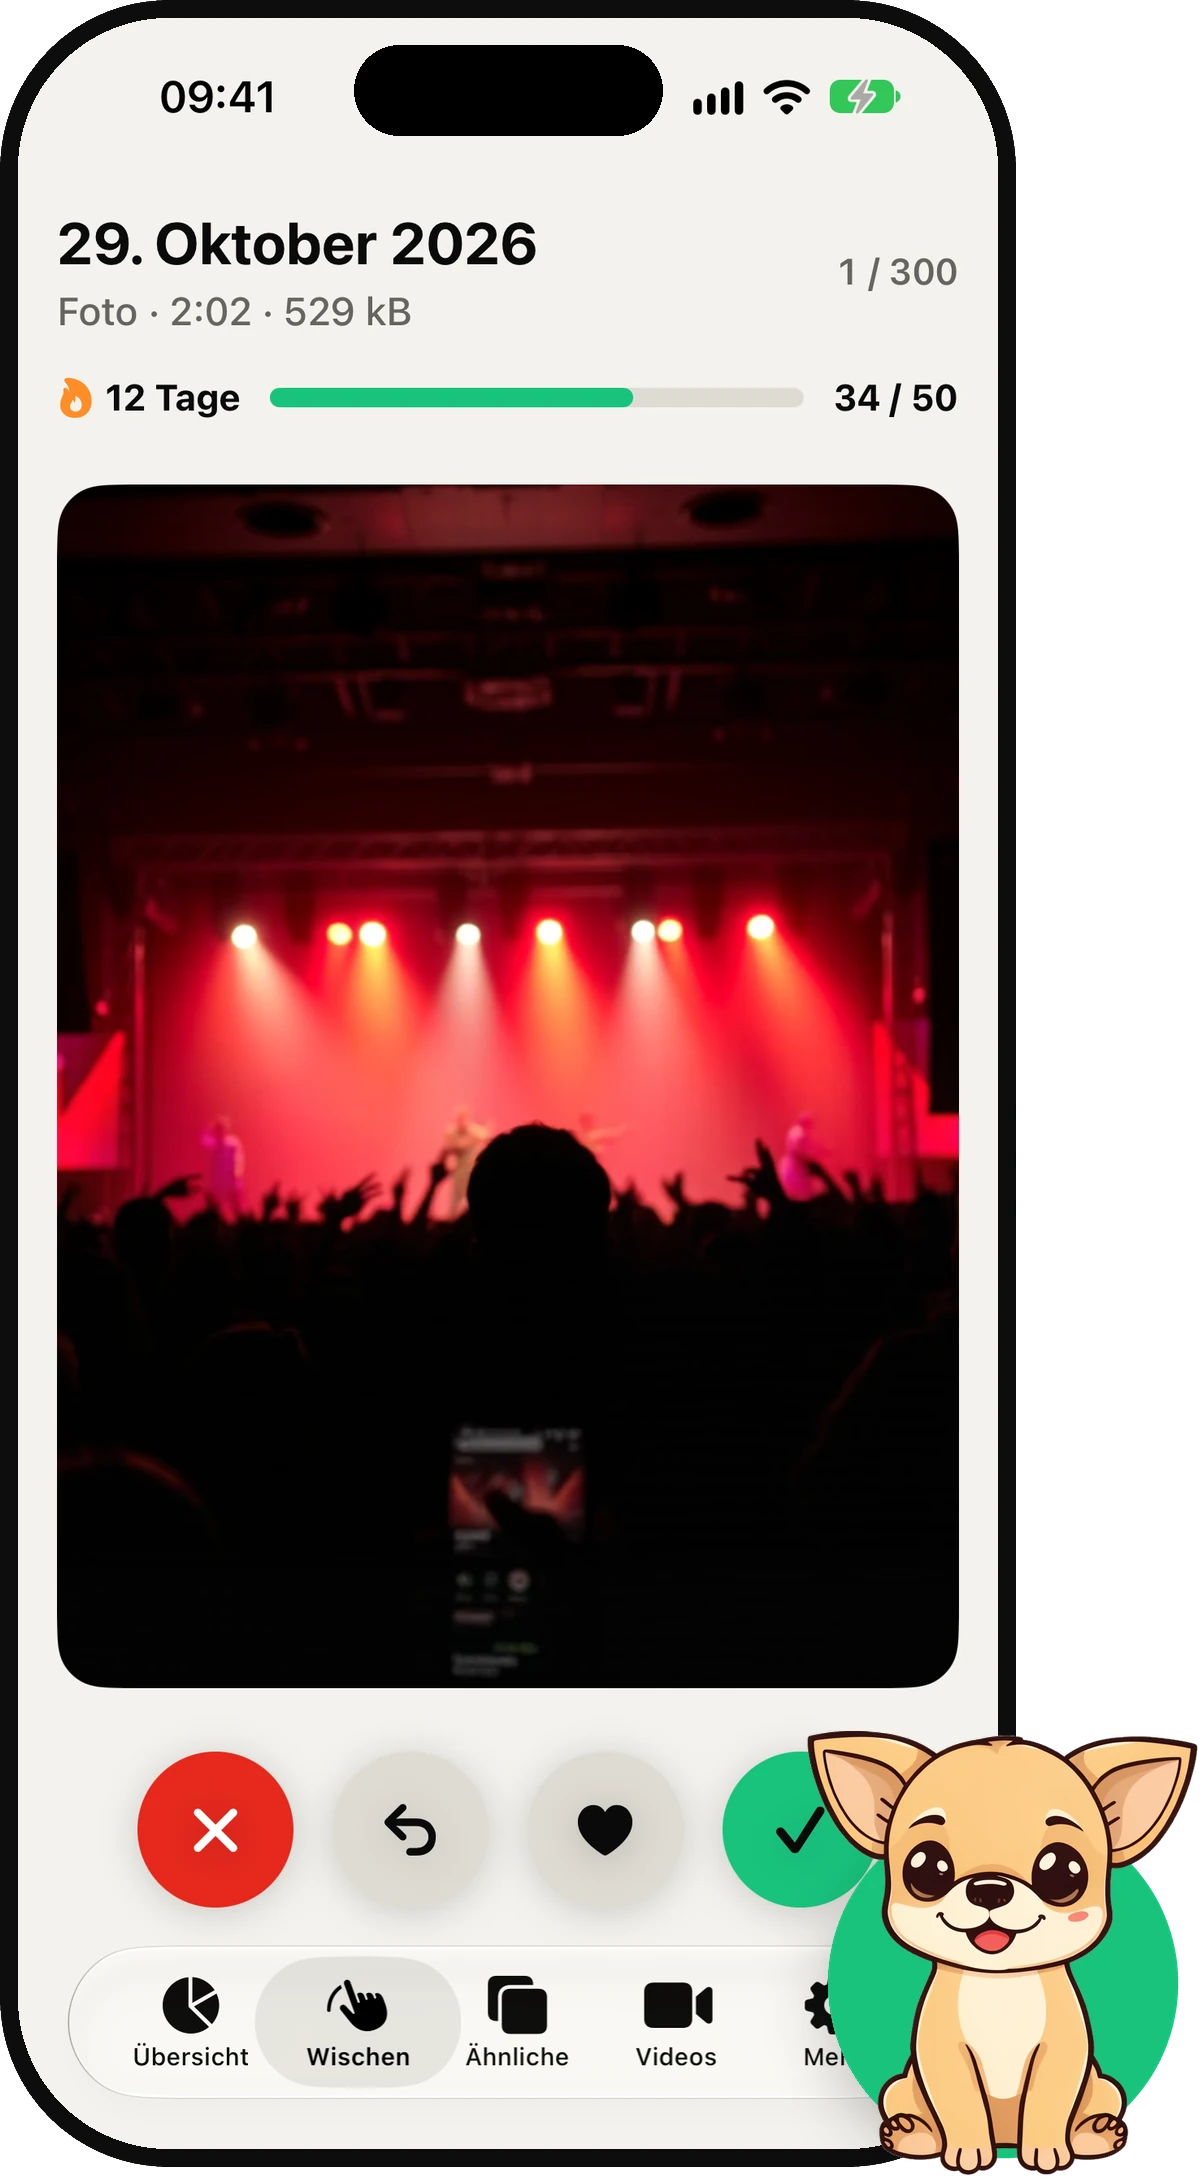
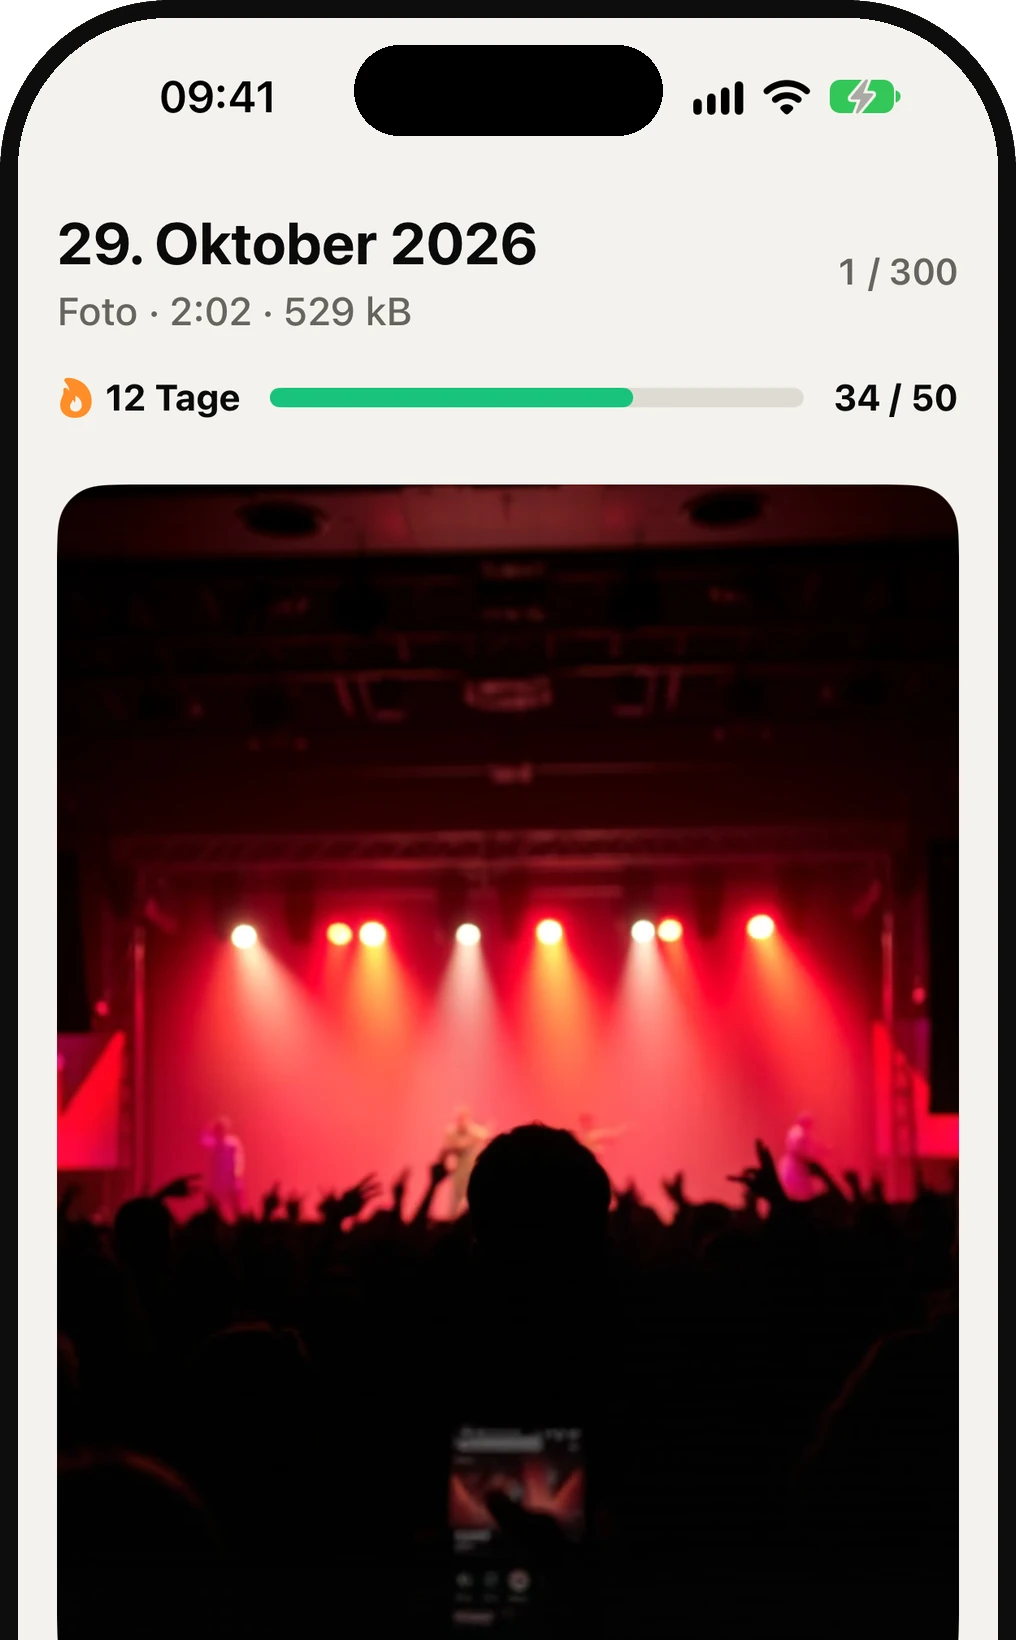
PlatzDa: Vorteile und Knopf wieder zusammen, Handys mittig und ohne Hund

diff --git a/index.html b/index.html
@@ -190,27 +190,36 @@
   .socials .tile svg { width: 34px; height: 34px; }
   .socials .t, .app .t { font-size: 1.375rem; }
 
-  /* Eigene App: Karte, freigestellte Handys, Vorteile und Knopf stehen jeder für sich */
+  /* Eigene App: Karte, Handys und Vorteile mit Knopf stehen jeder für sich.
+     Am Handy immer ein iPhone genau in der Mitte, die Nachbarn schauen links und rechts hervor. */
   .app { margin-top: 32px; }
   .app .item { height: auto; }
   .app .s { white-space: normal; }
   .shots {
-    list-style: none; margin: 16px calc(50% - 50vw) 0; padding: 12px 16px 44px;
-    display: grid; grid-auto-flow: column; grid-auto-columns: min(66vw, 300px); gap: 14px;
-    overflow-x: auto; scroll-snap-type: x proximity; scroll-padding-left: 16px; scrollbar-width: none;
+    --phone: min(64vw, 280px);
+    list-style: none; margin: 24px calc(50% - 50vw) 0; padding: 0 calc(50vw - var(--phone) / 2);
+    display: grid; grid-auto-flow: column; grid-auto-columns: var(--phone); gap: 14px;
+    overflow-x: auto; scroll-snap-type: x mandatory; scrollbar-width: none;
   }
   .shots::-webkit-scrollbar { display: none; }
-  .shots li { scroll-snap-align: start; }
-  .shots img { width: 100%; height: auto; filter: drop-shadow(0 14px 18px rgba(20, 20, 22, .2)); }
-  .perks { list-style: none; margin: -12px 0 0; padding: 0; display: grid; gap: 20px; }
-  .perks .item { grid-template-columns: minmax(0, 1fr); padding-right: 16px; }
-  .perks .item:hover { transform: none; box-shadow: 0 16px 32px -14px rgba(20, 20, 22, .14); }
-  .perks .tile { width: 60px; height: 60px; }
-  .perks .tile svg { width: 28px; height: 28px; }
-  .perks .t { font-size: clamp(1rem, 4.4vw, 1.125rem); }
+  .shots li { scroll-snap-align: center; }
+  .shots img {
+    width: 100%; height: auto;
+    -webkit-mask-image: linear-gradient(to bottom, #000 74%, transparent);
+    mask-image: linear-gradient(to bottom, #000 74%, transparent);
+  }
+  .app-info {
+    display: grid; gap: 16px;
+    margin: 20px 0 0 10px; padding: 20px 16px;
+    background: var(--card);
+    box-shadow: 0 16px 32px -14px rgba(20, 20, 22, .14);
+  }
+  .facts { list-style: none; margin: 0; padding: 0; display: grid; gap: 8px; font-weight: 500; }
+  .facts li { display: flex; gap: 8px; align-items: flex-start; }
+  .facts svg { width: 20px; height: 20px; margin-top: 2px; color: var(--ok); flex: none; }
   .get {
     display: flex; align-items: center; justify-content: center;
-    min-height: 56px; margin: 20px 0 0 10px; padding: 8px 16px;
+    min-height: 54px; padding: 8px 16px;
     background: #19C37D; color: #0A0A0B;
     font-size: 1.0625rem; font-weight: 600; text-decoration: none; text-align: center;
     transition: background-color .2s var(--ease-out);
@@ -270,8 +279,8 @@
     .products { align-items: start; }
   }
   @media (min-width: 1100px) {
-    .shots { grid-auto-columns: 1fr; max-width: 1400px; margin-left: auto; margin-right: auto; width: 100vw; position: relative; left: 50%; transform: translateX(-50%); overflow: visible; padding: 12px 32px 44px; }
-    .perks { grid-template-columns: repeat(3, 1fr); column-gap: 18px; }
+    .shots { margin-left: 10px; margin-right: 0; padding: 0; grid-auto-columns: 1fr; overflow: visible; }
+    .app-info { grid-template-columns: 1fr 1fr; gap: 28px; align-items: center; padding: 22px 20px; }
   }
 </style>
 </head>
@@ -294,8 +303,7 @@
   <symbol id="i-bag" viewBox="0 0 24 24"><g fill="none" stroke="currentColor" stroke-width="2" stroke-linecap="round" stroke-linejoin="round"><path d="M6 2 3 6v14a2 2 0 0 0 2 2h14a2 2 0 0 0 2-2V6l-3-4Z"/><path d="M3 6h18"/><path d="M16 10a4 4 0 0 1-8 0"/></g></symbol>
   <symbol id="i-link" viewBox="0 0 24 24"><g fill="none" stroke="currentColor" stroke-width="2" stroke-linecap="round" stroke-linejoin="round"><path d="M10 13a5 5 0 0 0 7.54.54l3-3a5 5 0 0 0-7.07-7.07l-1.72 1.71"/><path d="M14 11a5 5 0 0 0-7.54-.54l-3 3a5 5 0 0 0 7.07 7.07l1.71-1.71"/></g></symbol>
   <symbol id="i-whatsapp" viewBox="0 0 24 24"><path fill="currentColor" d="M17.472 14.382c-.297-.149-1.758-.867-2.03-.967-.273-.099-.471-.148-.67.15-.197.297-.767.966-.94 1.164-.173.199-.347.223-.644.075-.297-.15-1.255-.463-2.39-1.475-.883-.788-1.48-1.761-1.653-2.059-.173-.297-.018-.458.13-.606.134-.133.298-.347.446-.52.149-.174.198-.298.298-.497.099-.198.05-.371-.025-.52-.075-.149-.669-1.612-.916-2.207-.242-.579-.487-.5-.669-.51-.173-.008-.371-.01-.57-.01-.198 0-.52.074-.792.372-.272.297-1.04 1.016-1.04 2.479 0 1.462 1.065 2.875 1.213 3.074.149.198 2.096 3.2 5.077 4.487.709.306 1.262.489 1.694.625.712.227 1.36.195 1.871.118.571-.085 1.758-.719 2.006-1.413.248-.694.248-1.289.173-1.413-.074-.124-.272-.198-.57-.347m-5.421 7.403h-.004a9.87 9.87 0 01-5.031-1.378l-.361-.214-3.741.982.998-3.648-.235-.374a9.86 9.86 0 01-1.51-5.26c.001-5.45 4.436-9.884 9.888-9.884 2.64 0 5.122 1.030 6.988 2.898a9.825 9.825 0 012.893 6.994c-.003 5.45-4.437 9.884-9.885 9.884m8.413-18.297A11.815 11.815 0 0012.05 0C5.495 0 .16 5.335.157 11.892c0 2.096.547 4.142 1.588 5.945L.057 24l6.305-1.654a11.882 11.882 0 005.683 1.448h.005c6.554 0 11.89-5.335 11.893-11.893a11.821 11.821 0 00-3.48-8.413Z"/></symbol>
-  <symbol id="i-moon" viewBox="0 0 24 24"><path fill="none" stroke="currentColor" stroke-width="2" stroke-linecap="round" stroke-linejoin="round" d="M12 3a6 6 0 0 0 9 9 9 9 0 1 1-9-9Z"/></symbol>
-  <symbol id="i-lock" viewBox="0 0 24 24"><g fill="none" stroke="currentColor" stroke-width="2" stroke-linecap="round" stroke-linejoin="round"><rect width="18" height="11" x="3" y="11" rx="2"/><path d="M7 11V7a5 5 0 0 1 10 0v4"/></g></symbol>
+  <symbol id="i-check" viewBox="0 0 24 24"><path fill="none" stroke="currentColor" stroke-width="2.4" stroke-linecap="round" stroke-linejoin="round" d="M20 6 9 17l-5-5"/></symbol>
   <symbol id="i-right" viewBox="0 0 24 24"><path fill="none" stroke="currentColor" stroke-width="2" stroke-linecap="round" stroke-linejoin="round" d="M5 12h14m-7-7 7 7-7 7"/></symbol>
 </svg>
 
@@ -328,27 +336,20 @@
       <svg class="arrow" aria-hidden="true"><use href="#i-right"/></svg>
     </a>
     <ul class="shots" tabindex="0" aria-label="Bilder aus der App" data-i18n-aria="appShots">
-      <li><img src="assets/platzda/de/1.webp" width="1202" height="2178" alt="" data-shot="1" data-i18n-alt="shot1" loading="lazy" decoding="async"></li>
-      <li><img src="assets/platzda/de/2.webp" width="1202" height="2178" alt="" data-shot="2" data-i18n-alt="shot2" loading="lazy" decoding="async"></li>
-      <li><img src="assets/platzda/de/3.webp" width="1202" height="2178" alt="" data-shot="3" data-i18n-alt="shot3" loading="lazy" decoding="async"></li>
-      <li><img src="assets/platzda/de/4.webp" width="1202" height="2178" alt="" data-shot="4" data-i18n-alt="shot4" loading="lazy" decoding="async"></li>
-      <li><img src="assets/platzda/de/5.webp" width="1202" height="2178" alt="" data-shot="5" data-i18n-alt="shot5" loading="lazy" decoding="async"></li>
+      <li><img src="assets/platzda/de/1.webp" width="1016" height="1640" alt="" data-shot="1" data-i18n-alt="shot1" loading="lazy" decoding="async"></li>
+      <li><img src="assets/platzda/de/2.webp" width="1016" height="1640" alt="" data-shot="2" data-i18n-alt="shot2" loading="lazy" decoding="async"></li>
+      <li><img src="assets/platzda/de/3.webp" width="1016" height="1640" alt="" data-shot="3" data-i18n-alt="shot3" loading="lazy" decoding="async"></li>
+      <li><img src="assets/platzda/de/4.webp" width="1016" height="1640" alt="" data-shot="4" data-i18n-alt="shot4" loading="lazy" decoding="async"></li>
+      <li><img src="assets/platzda/de/5.webp" width="1016" height="1640" alt="" data-shot="5" data-i18n-alt="shot5" loading="lazy" decoding="async"></li>
     </ul>
-    <ul class="perks">
-      <li><div class="item">
-        <span class="tile"><svg aria-hidden="true"><use href="#i-moon"/></svg></span>
-        <span><span class="t" data-i18n="appF1">Jede Nacht automatisch</span><span class="s" data-i18n="appF1s">während dein iPhone lädt</span></span>
-      </div></li>
-      <li><div class="item">
-        <span class="tile"><svg aria-hidden="true"><use href="#i-lock"/></svg></span>
-        <span><span class="t" data-i18n="appF2">Kein Konto</span><span class="s" data-i18n="appF2s">keine Cloud, keine Werbung</span></span>
-      </div></li>
-      <li><div class="item">
-        <span class="tile"><svg aria-hidden="true"><use href="#i-shield"/></svg></span>
-        <span><span class="t" data-i18n="appF3">Nichts wird ohne dich gelöscht</span><span class="s" data-i18n="appF3s">Du bestätigst jedes Löschen</span></span>
-      </div></li>
-    </ul>
-    <a class="get" href="https://apps.apple.com/app/apple-store/id6822024283?pt=129603464&amp;ct=webseite&amp;mt=8" target="_blank" rel="noopener" data-track="platzda" data-i18n="appGet">Im App Store laden</a>
+    <div class="app-info">
+      <ul class="facts">
+        <li><svg aria-hidden="true"><use href="#i-check"/></svg><span data-i18n="appF1">Jede Nacht automatisch, während dein iPhone lädt</span></li>
+        <li><svg aria-hidden="true"><use href="#i-check"/></svg><span data-i18n="appF2">Kein Konto, keine Cloud, keine Werbung</span></li>
+        <li><svg aria-hidden="true"><use href="#i-check"/></svg><span data-i18n="appF3">Nichts wird ohne dich gelöscht</span></li>
+      </ul>
+      <a class="get" href="https://apps.apple.com/app/apple-store/id6822024283?pt=129603464&amp;ct=webseite&amp;mt=8" target="_blank" rel="noopener" data-track="platzda" data-i18n="appGet">Im App Store laden</a>
+    </div>
   </section>
 
   <nav aria-label="Meine Kanäle" data-i18n-aria="channels">
@@ -467,9 +468,9 @@
         appNote: "iPhone voll? PlatzDa macht deine Fotos und Videos kleiner, ohne dass du etwas löschen musst.",
         appSub: "Speicherplatz leeren",
         appShots: "Bilder aus der App",
-        appF1: "Jede Nacht automatisch", appF1s: "während dein iPhone lädt",
-        appF2: "Kein Konto", appF2s: "keine Cloud, keine Werbung",
-        appF3: "Nichts wird ohne dich gelöscht", appF3s: "Du bestätigst jedes Löschen",
+        appF1: "Jede Nacht automatisch, während dein iPhone lädt",
+        appF2: "Kein Konto, keine Cloud, keine Werbung",
+        appF3: "Nichts wird ohne dich gelöscht",
         appGet: "Im App Store laden",
         shot1: "PlatzDa zeigt 99 Prozent vollen Speicher und bietet „Jetzt aufräumen“ an",
         shot2: "61,5 GB frei machen, ohne etwas zu löschen",
@@ -515,9 +516,9 @@
         appNote: "iPhone full? PlatzDa makes your photos and videos smaller, so you don't have to delete anything.",
         appSub: "Free up iPhone storage",
         appShots: "Screens from the app",
-        appF1: "Automatic every night", appF1s: "while your iPhone charges",
-        appF2: "No account", appF2s: "no cloud, no ads",
-        appF3: "Nothing gets deleted without you", appF3s: "You confirm every deletion",
+        appF1: "Automatically every night while your iPhone charges",
+        appF2: "No account, no cloud, no ads",
+        appF3: "Nothing gets deleted without you",
         appGet: "Get it on the App Store",
         shot1: "PlatzDa shows storage 99 percent full and offers to clean up",
         shot2: "Free up 61.5 GB without deleting anything",
